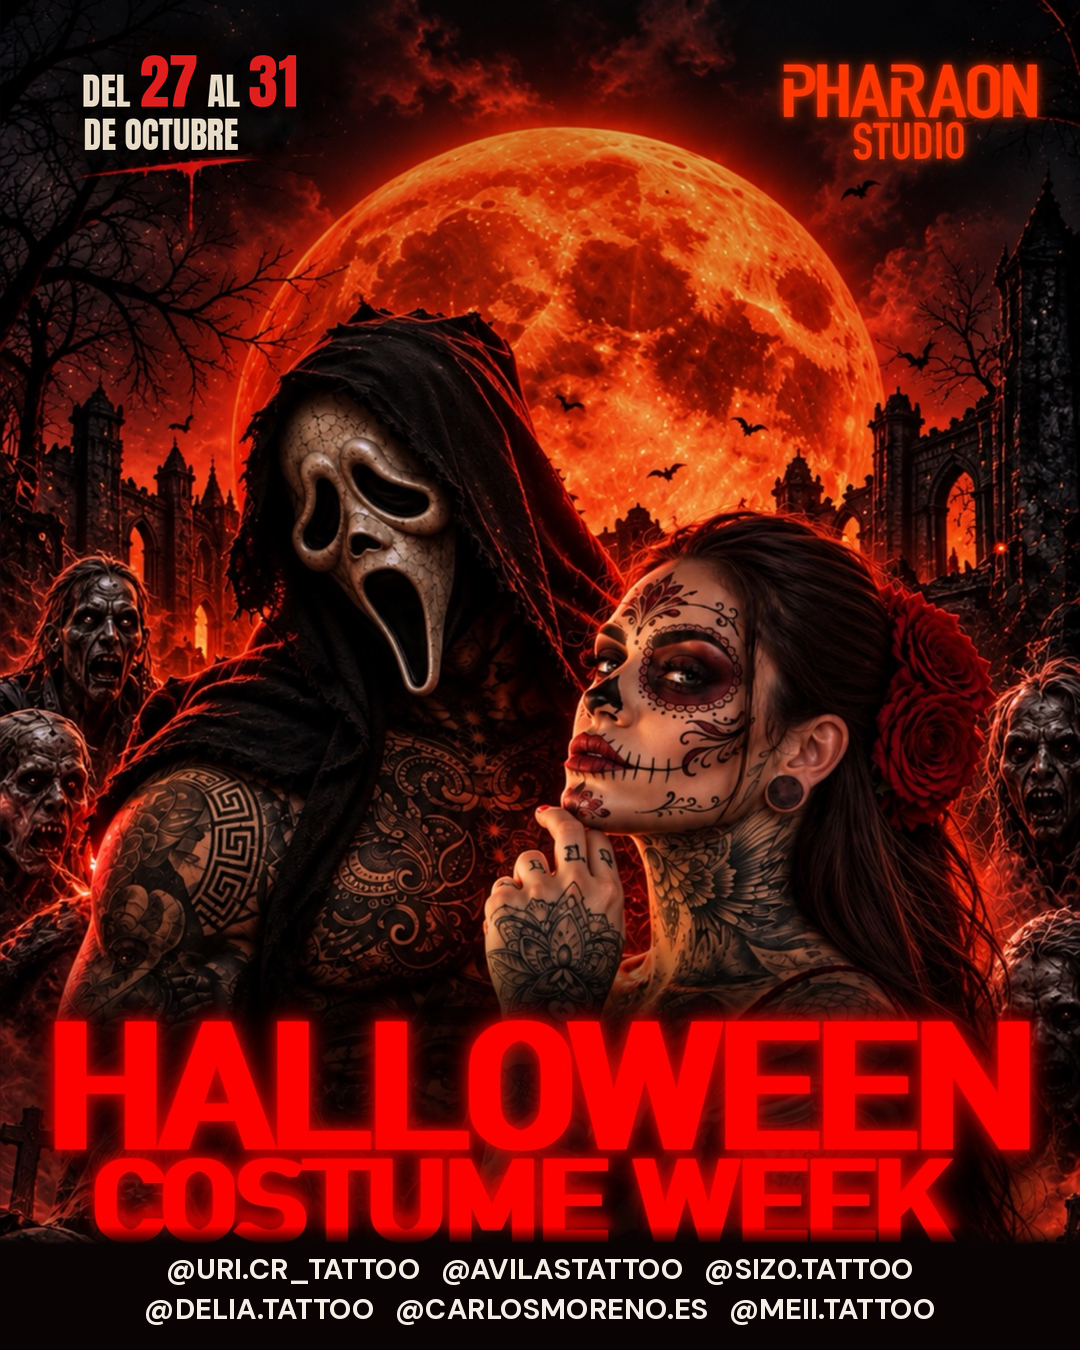
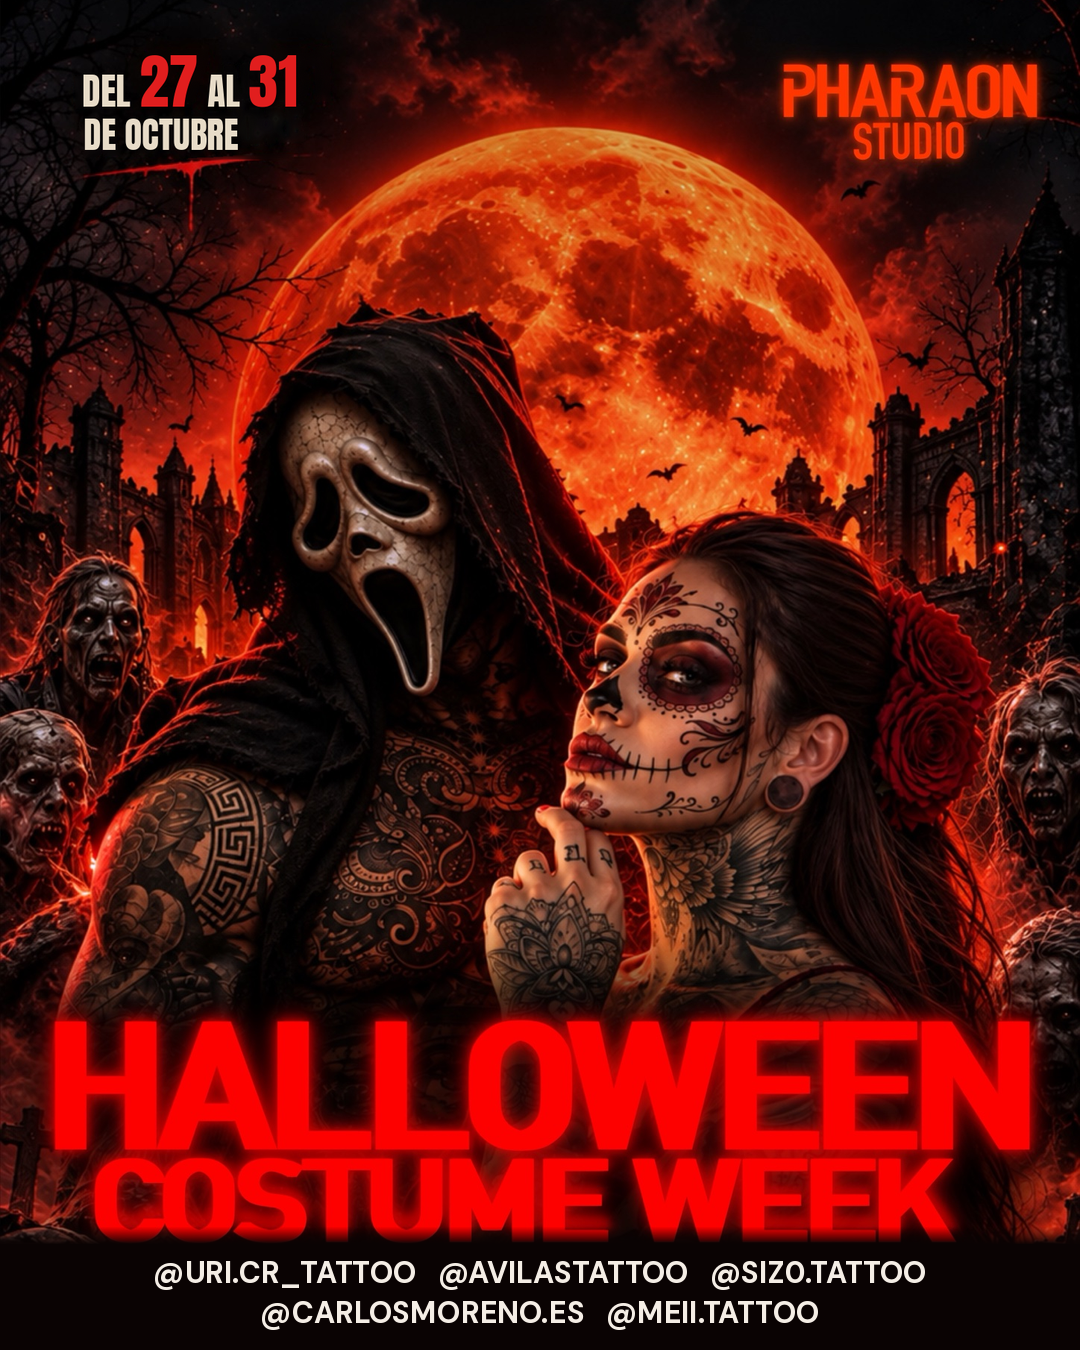
Delia ya no está en el estudio: fichas y carrusel de Halloween actualizados
Claude-Session: https://claude.ai/code/session_017Rsphfz7JrN2HBs3pyC4Qn

Changed region(s): [[0.1222, 0.9333, 0.8556, 0.9956]]

diff --git a/posts/halloween-2026/generar.py b/posts/halloween-2026/generar.py
@@ -97,7 +97,7 @@ y=parrafo(d,y,'Carrer de Prolongació Falguera, 2',font('DMSans-500.ttf',38),CRE
 y=parrafo(d,y,'Sant Feliu de Llobregat',font('DMSans-500.ttf',38),CREMA)
 y+=15; y=parrafo(d,y,'Martes a sábado, de 9:00 a 19:00',font('DMSans-500.ttf',38),GRIS)
 y+=55; d=centro(d,y,'NUESTROS ARTISTAS',font('Anton-Regular.ttf',44),ROJO); y+=75
-for l in ['@uri.cr_tattoo   @avilastattoo   @siz0.tattoo','@delia.tattoo   @carlosmoreno.es   @meii.tattoo']:
+for l in ['@uri.cr_tattoo   @avilastattoo   @siz0.tattoo','@carlosmoreno.es   @meii.tattoo']:
     y=parrafo(d,y,l,font('DMSans-700.ttf',34),CREMA,1000)
 firma(d,6); img.save(OUT+'06_reserva.png')
 print('ok')

diff --git a/estudio/pharaon.md b/estudio/pharaon.md
@@ -94,14 +94,13 @@ Fichas individuales en `estudio/artistas/` (plantilla: `_plantilla.md`).
 | Meii | @meii.tattoo | Realismo, fine line, microrrealismo, cromados · lettering · anime · blackwork | **Muy alta**: "cualquier cosa" |
 | Kike (Siz0) | @siz0.tattoo | Realismo · lettering · anime · blackwork | Tímido para salir en vídeos |
 | Carlos Moreno | @carlosmoreno.es | Realismo · lettering · anime · blackwork | Viene poco al estudio ahora: baja disponibilidad |
-| Delia | @delia.tattoo | Realismo · lettering · anime · blackwork | Viene poco al estudio ahora: baja disponibilidad |
 
 Todo el equipo se lleva muy bien. Fuente del equipo, estilos, disposición y dinámica: [Usuario].
 
 ## Cómo deben usar esta ficha los agentes
 
 - `creative` y `script-writer`: no inventar artistas, estilos, servicios ni frases oficiales que no estén aquí.
-- **Reparto:** Uri, Avilas y Meii son el núcleo a cámara y pueden hacer cualquier tipo de papel. Siz0 hace papeles discretos (sin hablar, manos, jurado silencioso), salvo que él quiera más. Carlos y Delia no deben ser imprescindibles en ningún vídeo: como mucho, apariciones opcionales.
+- **Reparto:** Uri, Avilas y Meii son el núcleo a cámara y pueden hacer cualquier tipo de papel. Siz0 hace papeles discretos (sin hablar, manos, jurado silencioso), salvo que él quiera más. Carlos no debe ser imprescindible en ningún vídeo: como mucho, apariciones opcionales. Delia ya no forma parte del estudio (18/10/2026): no mencionarla.
 - La buena relación del equipo permite piques, competiciones y bromas entre ellos. Lo que no se sabe es **cómo** es cada uno (personalidad, humor, aficiones): no inventarlo.
 - Si un concepto necesita un dato PENDIENTE, indicarlo como requisito ("necesita confirmar X") en vez de suponerlo.
 - CTA de reserva cuando aporte valor: "cita previa por Instagram @pharaonstudio".

diff --git a/estudio/artistas/antiguos/delia.md b/estudio/artistas/antiguos/delia.md
@@ -1,5 +1,7 @@
 # Delia (@delia.tattoo) — Ficha de artista
 
+> **YA NO FORMA PARTE DE PHARAON** (confirmado por el usuario el 18/10/2026). No incluirla en vídeos, posts, menciones ni listas de artistas.
+
 > Regla: no deducir personalidad, humor, comportamiento ante cámara ni rasgos personales a partir de fotos o portfolio. Lo no declarado explícitamente queda como **PENDIENTE DE COMPLETAR**.
 
 Última revisión: 2026-10-06 · Fuente principal: **[Usuario]** (información facilitada por PHARAON).

diff --git a/reels/PHARAON_SITCOM/README.md b/reels/PHARAON_SITCOM/README.md
@@ -13,7 +13,7 @@ Referencia de formato: mini sitcom animada con labios sincronizados (estilo @irr
 | personajes/adri.png | Adri | Manager y recepcionista | (sin ficha de artista) |
 | personajes/carlos.png | Carlos Moreno | Tatuador | estudio/artistas/carlos-moreno.md |
 
-Delia no tiene dibujo por ahora.
+Delia ya no forma parte del estudio (18/10/2026).
 
 ## Reglas
 - Personalidades, manías y anécdotas: solo las que dé el usuario. Nada deducido de los dibujos.
